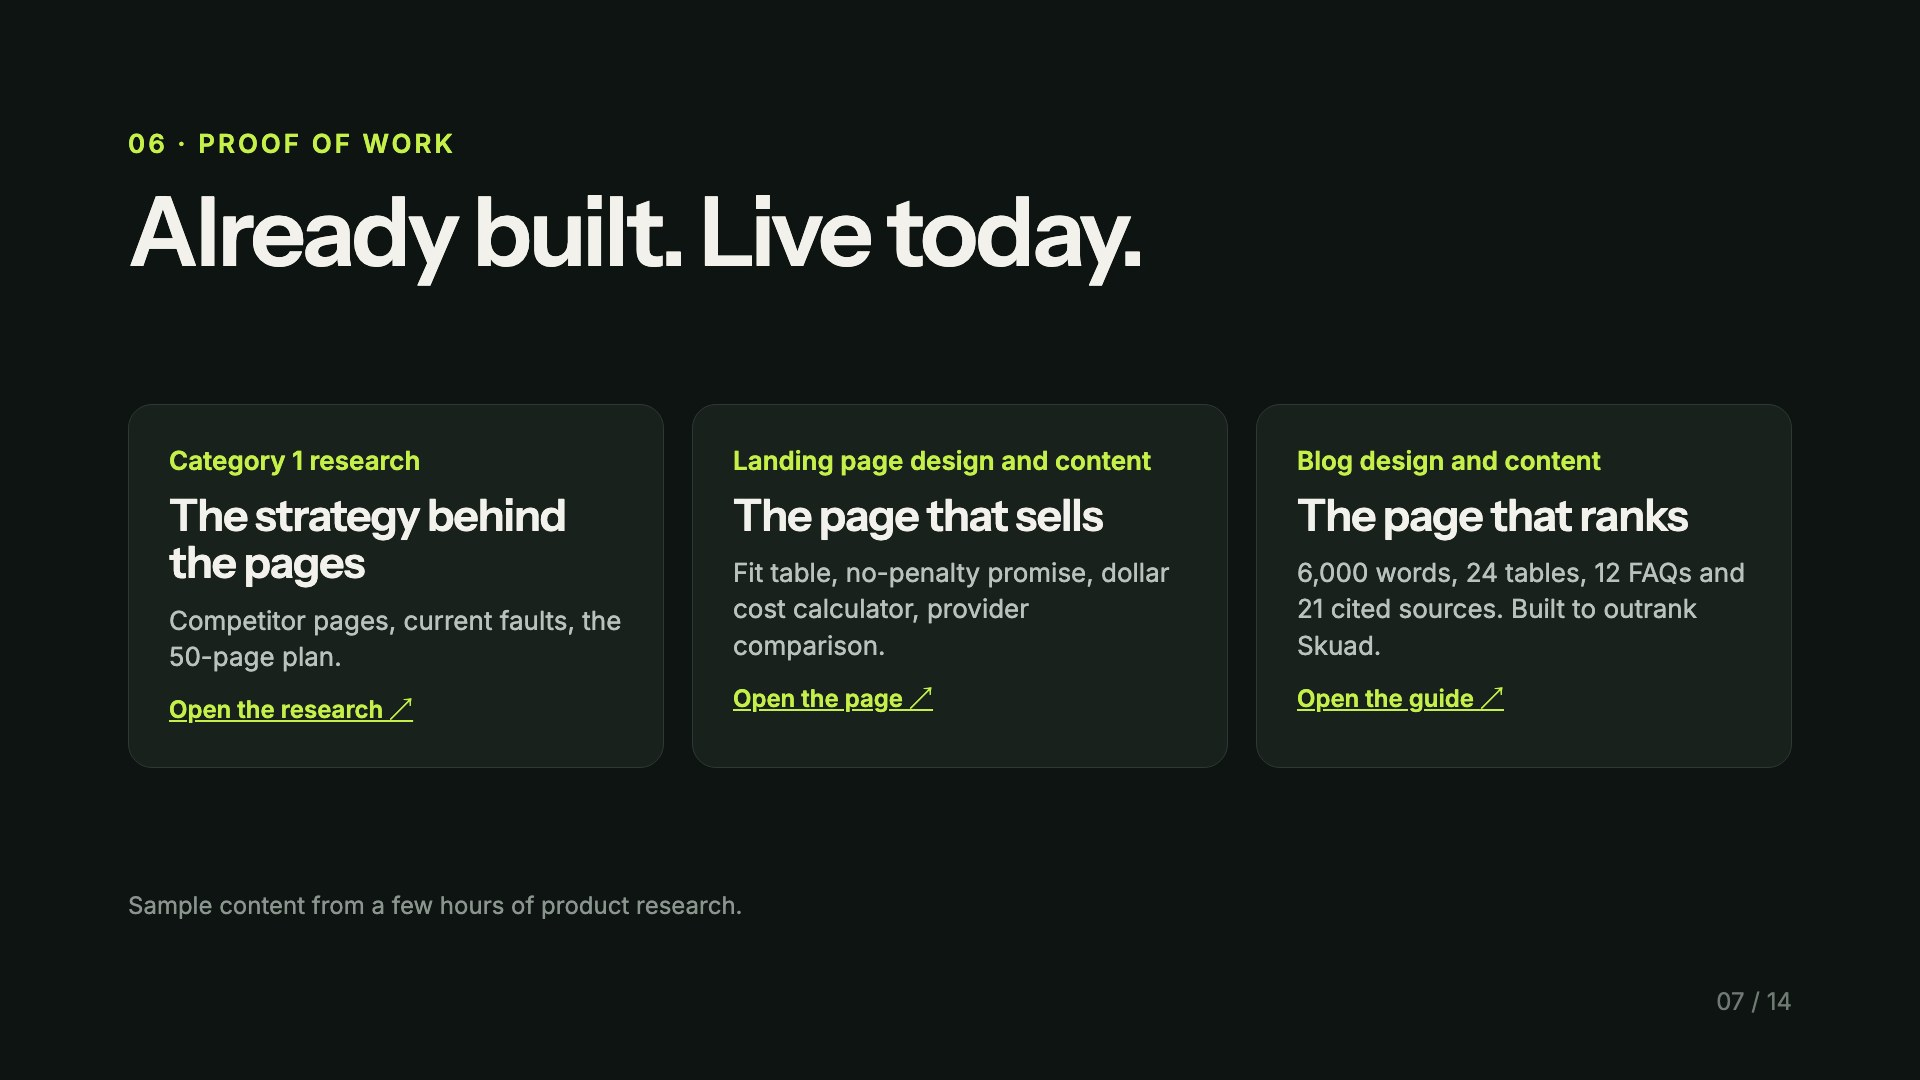
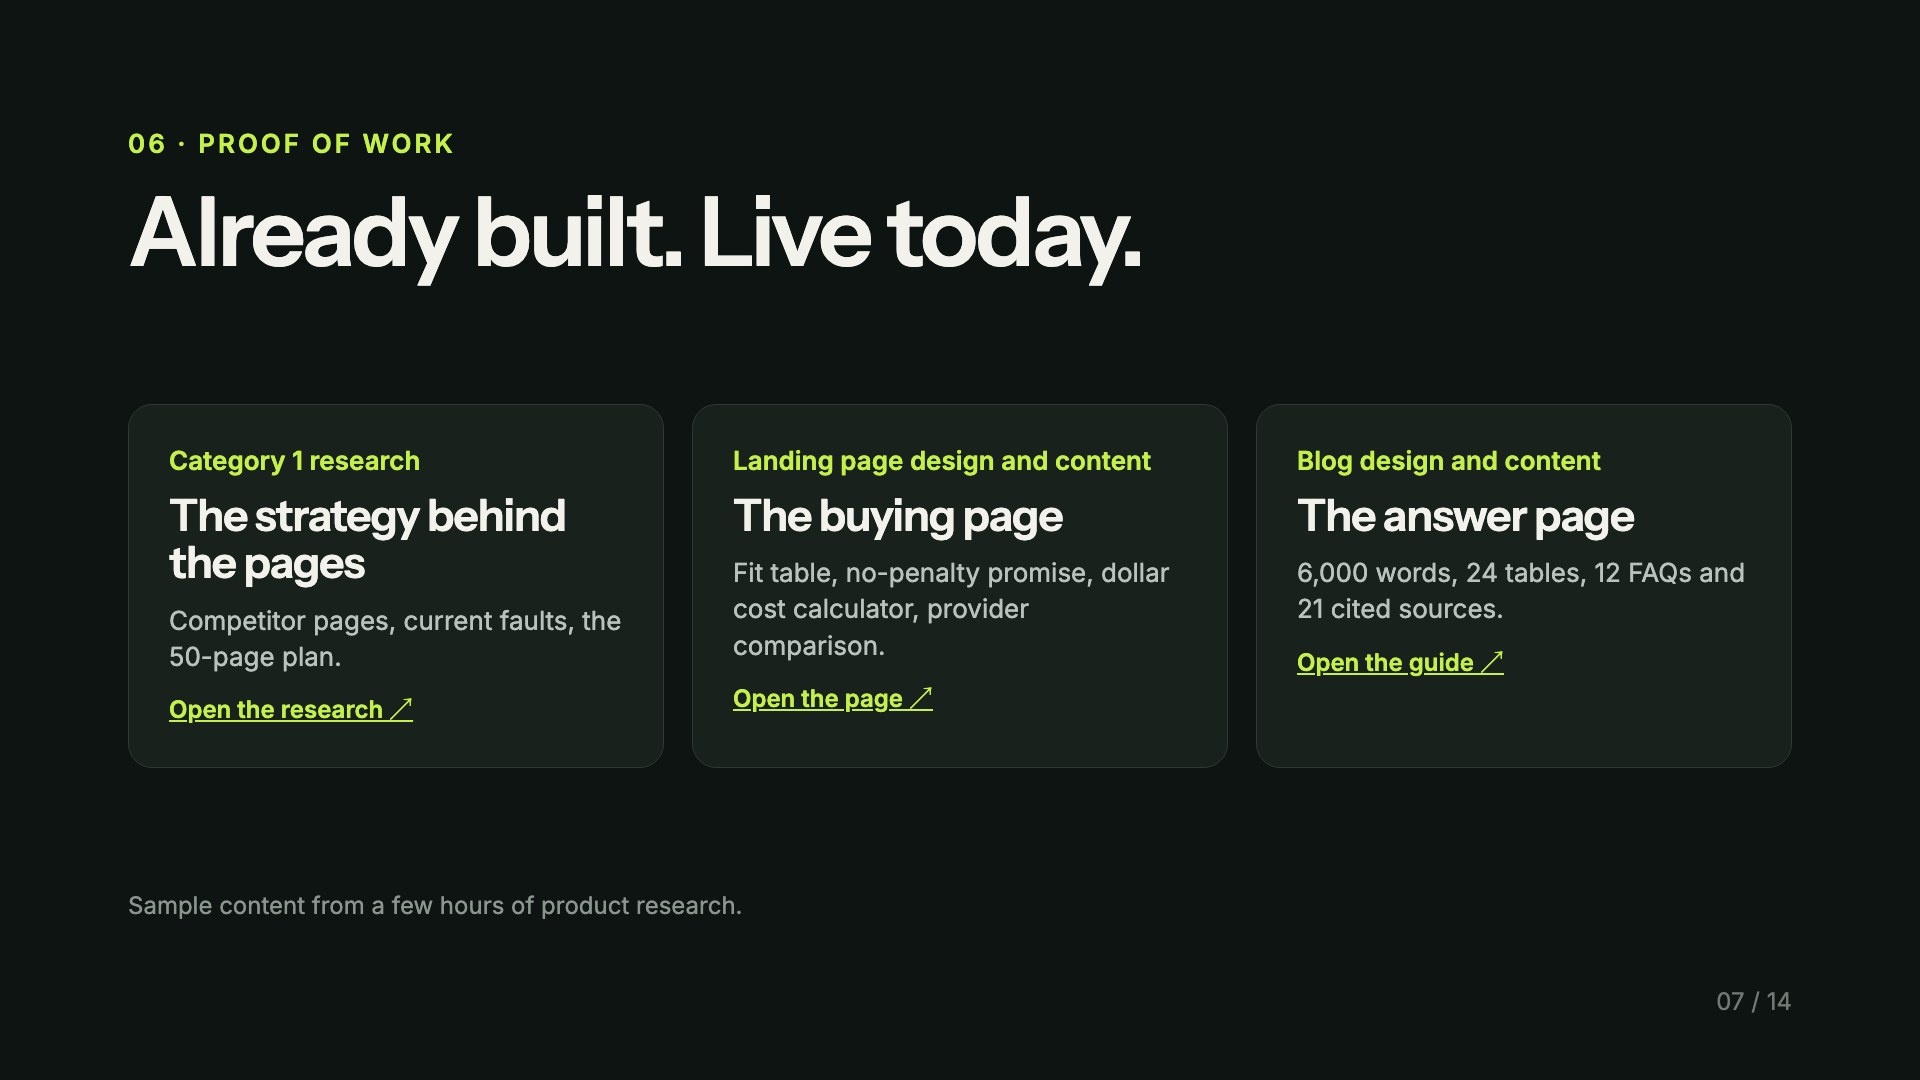
Deck: four recommendation cards, recurring deliverables card, remove outcome promises

diff --git a/deck/index.html b/deck/index.html
@@ -40,7 +40,7 @@ body{display:flex;flex-direction:column;min-height:100vh}
 </style></head><body>
 <header class="top"><div class="brand"><img src="../assets/mark.png" alt="">Paybooks SEO pitch <small>· September 2026</small></div>
 <nav class="links"><a href="../strategy/">Category 1 research</a><a href="../">Landing page</a><a href="../employer-of-record/india/">EOR India guide</a></nav></header>
-<p class="tip">Turn your phone sideways for a larger view.</p><main class="stage"><div class="frame" id="frame"><figure class="slide on" data-i="1" aria-label="Slide 1: Dominate SERPs for 4 categories"><img src="slides/slide-01.jpg" width="1920" height="1080" alt="Slide 1: Dominate SERPs for 4 categories" loading="eager" draggable="false"></figure><figure class="slide" data-i="2" aria-label="Slide 2: Where Paybooks stands"><img src="slides/slide-02.jpg" width="1920" height="1080" alt="Slide 2: Where Paybooks stands" loading="eager" draggable="false"></figure><figure class="slide" data-i="3" aria-label="Slide 3: The prize"><img src="slides/slide-03.jpg" width="1920" height="1080" alt="Slide 3: The prize" loading="lazy" draggable="false"></figure><figure class="slide" data-i="4" aria-label="Slide 4: Category 1 research"><img src="slides/slide-04.jpg" width="1920" height="1080" alt="Slide 4: Category 1 research" loading="lazy" draggable="false"><a class="hot" href="https://employer-of-record-eor-lp-design-livid.vercel.app/strategy/" target="_blank" rel="noopener" aria-label="Open link" style="left:33.125%;top:90.926%;width:35.104%;height:3.611%"></a></figure><figure class="slide" data-i="5" aria-label="Slide 5: Diagnosis"><img src="slides/slide-05.jpg" width="1920" height="1080" alt="Slide 5: Diagnosis" loading="lazy" draggable="false"><a class="hot" href="https://paybooks.in/article/employer-of-record-in-india-fast-compliant-expansion-for-startups/" target="_blank" rel="noopener" aria-label="Open link" style="left:45.885%;top:41.667%;width:25.469%;height:3.704%"></a><a class="hot" href="https://paybooks.in/article/why-global-tech-startups-are-using-employer-of-record-india-in-2026/" target="_blank" rel="noopener" aria-label="Open link" style="left:74.531%;top:41.667%;width:17.969%;height:3.704%"></a><a class="hot" href="https://paybooks.in/article/why-global-tech-startups-are-using-employer-of-record-india-in-2026/" target="_blank" rel="noopener" aria-label="Open link" style="left:45.417%;top:44.907%;width:14.948%;height:3.704%"></a><a class="hot" href="https://paybooks.in/eor/" target="_blank" rel="noopener" aria-label="Open link" style="left:45.417%;top:53.148%;width:10.156%;height:3.704%"></a><a class="hot" href="https://paybooks.in/eor-2/" target="_blank" rel="noopener" aria-label="Open link" style="left:57.865%;top:53.148%;width:11.354%;height:3.704%"></a><a class="hot" href="https://paybooks.in/article/what-does-an-eor-in-india-actually-cost/" target="_blank" rel="noopener" aria-label="Open link" style="left:45.885%;top:76.111%;width:20.677%;height:3.704%"></a></figure><figure class="slide" data-i="6" aria-label="Slide 6: Category 1 strategy"><img src="slides/slide-06.jpg" width="1920" height="1080" alt="Slide 6: Category 1 strategy" loading="lazy" draggable="false"></figure><figure class="slide" data-i="7" aria-label="Slide 7: Proof of work"><img src="slides/slide-07.jpg" width="1920" height="1080" alt="Slide 7: Proof of work" loading="lazy" draggable="false"><a class="hot" href="https://employer-of-record-eor-lp-design-livid.vercel.app/strategy/" target="_blank" rel="noopener" aria-label="Open link" style="left:8.490%;top:63.981%;width:13.177%;height:3.611%"></a><a class="hot" href="https://employer-of-record-eor-lp-design-livid.vercel.app/" target="_blank" rel="noopener" aria-label="Open link" style="left:37.865%;top:59.537%;width:10.885%;height:3.611%"></a><a class="hot" href="https://employer-of-record-eor-lp-design-livid.vercel.app/employer-of-record/india/" target="_blank" rel="noopener" aria-label="Open link" style="left:67.240%;top:62.963%;width:11.302%;height:3.611%"></a></figure><figure class="slide" data-i="8" aria-label="Slide 8: Scope and ongoing support"><img src="slides/slide-08.jpg" width="1920" height="1080" alt="Slide 8: Scope and ongoing support" loading="lazy" draggable="false"></figure><figure class="slide" data-i="9" aria-label="Slide 9: Deliverables and timeline"><img src="slides/slide-09.jpg" width="1920" height="1080" alt="Slide 9: Deliverables and timeline" loading="lazy" draggable="false"></figure><figure class="slide" data-i="10" aria-label="Slide 10: Who you get"><img src="slides/slide-10.jpg" width="1920" height="1080" alt="Slide 10: Who you get" loading="lazy" draggable="false"><a class="hot" href="https://www.linkedin.com/in/mohankumarallada/" target="_blank" rel="noopener" aria-label="Open link" style="left:12.812%;top:90.926%;width:21.458%;height:3.611%"></a></figure><figure class="slide" data-i="11" aria-label="Slide 11: Track record"><img src="slides/slide-11.jpg" width="1920" height="1080" alt="Slide 11: Track record" loading="lazy" draggable="false"></figure><figure class="slide" data-i="12" aria-label="Slide 12: In their words"><img src="slides/slide-12.jpg" width="1920" height="1080" alt="Slide 12: In their words" loading="lazy" draggable="false"><a class="hot" href="https://www.linkedin.com/in/mohankumarallada/" target="_blank" rel="noopener" aria-label="Open link" style="left:20.104%;top:90.926%;width:5.781%;height:3.611%"></a></figure><figure class="slide" data-i="13" aria-label="Slide 13: Quotation"><img src="slides/slide-13.jpg" width="1920" height="1080" alt="Slide 13: Quotation" loading="lazy" draggable="false"></figure><figure class="slide" data-i="14" aria-label="Slide 14: Next step"><img src="slides/slide-14.jpg" width="1920" height="1080" alt="Slide 14: Next step" loading="lazy" draggable="false"><a class="hot" href="https://www.linkedin.com/in/mohankumarallada/" target="_blank" rel="noopener" aria-label="Open link" style="left:68.698%;top:84.630%;width:24.948%;height:3.981%"></a></figure></div></main>
+<p class="tip">Turn your phone sideways for a larger view.</p><main class="stage"><div class="frame" id="frame"><figure class="slide on" data-i="1" aria-label="Slide 1: Dominate SERPs for 4 categories"><img src="slides/slide-01.jpg" width="1920" height="1080" alt="Slide 1: Dominate SERPs for 4 categories" loading="eager" draggable="false"></figure><figure class="slide" data-i="2" aria-label="Slide 2: Where Paybooks stands"><img src="slides/slide-02.jpg" width="1920" height="1080" alt="Slide 2: Where Paybooks stands" loading="eager" draggable="false"></figure><figure class="slide" data-i="3" aria-label="Slide 3: The prize"><img src="slides/slide-03.jpg" width="1920" height="1080" alt="Slide 3: The prize" loading="lazy" draggable="false"></figure><figure class="slide" data-i="4" aria-label="Slide 4: Category 1 research"><img src="slides/slide-04.jpg" width="1920" height="1080" alt="Slide 4: Category 1 research" loading="lazy" draggable="false"><a class="hot" href="https://employer-of-record-eor-lp-design-livid.vercel.app/strategy/" target="_blank" rel="noopener" aria-label="Open link" style="left:33.125%;top:90.926%;width:35.104%;height:3.611%"></a></figure><figure class="slide" data-i="5" aria-label="Slide 5: Diagnosis"><img src="slides/slide-05.jpg" width="1920" height="1080" alt="Slide 5: Diagnosis" loading="lazy" draggable="false"><a class="hot" href="https://paybooks.in/article/employer-of-record-in-india-fast-compliant-expansion-for-startups/" target="_blank" rel="noopener" aria-label="Open link" style="left:45.885%;top:41.667%;width:25.469%;height:3.704%"></a><a class="hot" href="https://paybooks.in/article/why-global-tech-startups-are-using-employer-of-record-india-in-2026/" target="_blank" rel="noopener" aria-label="Open link" style="left:74.531%;top:41.667%;width:17.969%;height:3.704%"></a><a class="hot" href="https://paybooks.in/article/why-global-tech-startups-are-using-employer-of-record-india-in-2026/" target="_blank" rel="noopener" aria-label="Open link" style="left:45.417%;top:44.907%;width:14.948%;height:3.704%"></a><a class="hot" href="https://paybooks.in/eor/" target="_blank" rel="noopener" aria-label="Open link" style="left:45.417%;top:53.148%;width:10.156%;height:3.704%"></a><a class="hot" href="https://paybooks.in/eor-2/" target="_blank" rel="noopener" aria-label="Open link" style="left:57.865%;top:53.148%;width:11.354%;height:3.704%"></a><a class="hot" href="https://paybooks.in/article/what-does-an-eor-in-india-actually-cost/" target="_blank" rel="noopener" aria-label="Open link" style="left:45.885%;top:76.111%;width:20.677%;height:3.704%"></a></figure><figure class="slide" data-i="6" aria-label="Slide 6: Category 1 strategy"><img src="slides/slide-06.jpg" width="1920" height="1080" alt="Slide 6: Category 1 strategy" loading="lazy" draggable="false"></figure><figure class="slide" data-i="7" aria-label="Slide 7: Proof of work"><img src="slides/slide-07.jpg" width="1920" height="1080" alt="Slide 7: Proof of work" loading="lazy" draggable="false"><a class="hot" href="https://employer-of-record-eor-lp-design-livid.vercel.app/strategy/" target="_blank" rel="noopener" aria-label="Open link" style="left:8.490%;top:63.981%;width:13.177%;height:3.611%"></a><a class="hot" href="https://employer-of-record-eor-lp-design-livid.vercel.app/" target="_blank" rel="noopener" aria-label="Open link" style="left:37.865%;top:59.537%;width:10.885%;height:3.611%"></a><a class="hot" href="https://employer-of-record-eor-lp-design-livid.vercel.app/employer-of-record/india/" target="_blank" rel="noopener" aria-label="Open link" style="left:67.240%;top:59.537%;width:11.302%;height:3.611%"></a></figure><figure class="slide" data-i="8" aria-label="Slide 8: Scope and ongoing support"><img src="slides/slide-08.jpg" width="1920" height="1080" alt="Slide 8: Scope and ongoing support" loading="lazy" draggable="false"></figure><figure class="slide" data-i="9" aria-label="Slide 9: Deliverables and timeline"><img src="slides/slide-09.jpg" width="1920" height="1080" alt="Slide 9: Deliverables and timeline" loading="lazy" draggable="false"></figure><figure class="slide" data-i="10" aria-label="Slide 10: Who you get"><img src="slides/slide-10.jpg" width="1920" height="1080" alt="Slide 10: Who you get" loading="lazy" draggable="false"><a class="hot" href="https://www.linkedin.com/in/mohankumarallada/" target="_blank" rel="noopener" aria-label="Open link" style="left:12.812%;top:90.926%;width:21.458%;height:3.611%"></a></figure><figure class="slide" data-i="11" aria-label="Slide 11: Track record"><img src="slides/slide-11.jpg" width="1920" height="1080" alt="Slide 11: Track record" loading="lazy" draggable="false"></figure><figure class="slide" data-i="12" aria-label="Slide 12: In their words"><img src="slides/slide-12.jpg" width="1920" height="1080" alt="Slide 12: In their words" loading="lazy" draggable="false"><a class="hot" href="https://www.linkedin.com/in/mohankumarallada/" target="_blank" rel="noopener" aria-label="Open link" style="left:23.385%;top:90.926%;width:5.781%;height:3.611%"></a></figure><figure class="slide" data-i="13" aria-label="Slide 13: Quotation"><img src="slides/slide-13.jpg" width="1920" height="1080" alt="Slide 13: Quotation" loading="lazy" draggable="false"></figure><figure class="slide" data-i="14" aria-label="Slide 14: Next step"><img src="slides/slide-14.jpg" width="1920" height="1080" alt="Slide 14: Next step" loading="lazy" draggable="false"><a class="hot" href="https://www.linkedin.com/in/mohankumarallada/" target="_blank" rel="noopener" aria-label="Open link" style="left:68.698%;top:84.630%;width:24.948%;height:3.981%"></a></figure></div></main>
 <div class="bar"><button class="nav" id="prev" aria-label="Previous slide">&#8592;</button><div class="dots"><button class="dot on" data-go="1" aria-label="Go to slide 1"></button><button class="dot" data-go="2" aria-label="Go to slide 2"></button><button class="dot" data-go="3" aria-label="Go to slide 3"></button><button class="dot" data-go="4" aria-label="Go to slide 4"></button><button class="dot" data-go="5" aria-label="Go to slide 5"></button><button class="dot" data-go="6" aria-label="Go to slide 6"></button><button class="dot" data-go="7" aria-label="Go to slide 7"></button><button class="dot" data-go="8" aria-label="Go to slide 8"></button><button class="dot" data-go="9" aria-label="Go to slide 9"></button><button class="dot" data-go="10" aria-label="Go to slide 10"></button><button class="dot" data-go="11" aria-label="Go to slide 11"></button><button class="dot" data-go="12" aria-label="Go to slide 12"></button><button class="dot" data-go="13" aria-label="Go to slide 13"></button><button class="dot" data-go="14" aria-label="Go to slide 14"></button></div>
 <span class="count" id="count">1 / 14</span><button class="nav" id="next" aria-label="Next slide">&#8594;</button>
 <button class="nav fs" id="fs" aria-label="Full screen" title="Full screen">&#x26F6;</button></div>

diff --git a/deck/build_deck.py b/deck/build_deck.py
@@ -13,9 +13,9 @@ LINKS = {
         ("https://paybooks.in/eor/", [[878, 580, 183, 28]]),
         ("https://paybooks.in/eor-2/", [[1117, 580, 206, 28]]),
         ("https://paybooks.in/article/what-does-an-eor-in-india-actually-cost/", [[887, 828, 385, 28]])],
-    7: [(S + "strategy/", [[169, 697, 241, 27]]), (S, [[733, 649, 197, 27]]), (S + "employer-of-record/india/", [[1297, 686, 205, 27]])],
+    7: [(S + "strategy/", [[169, 697, 241, 27]]), (S, [[733, 649, 197, 27]]), (S + "employer-of-record/india/", [[1297, 649, 205, 27]])],
     10: [("https://www.linkedin.com/in/mohankumarallada/", [[252, 988, 400, 27]])],
-    12: [("https://www.linkedin.com/in/mohankumarallada/", [[392, 988, 99, 27]])],
+    12: [("https://www.linkedin.com/in/mohankumarallada/", [[455, 988, 99, 27]])],
     14: [("https://www.linkedin.com/in/mohankumarallada/", [[1325, 920, 467, 31]])],
 }
 
